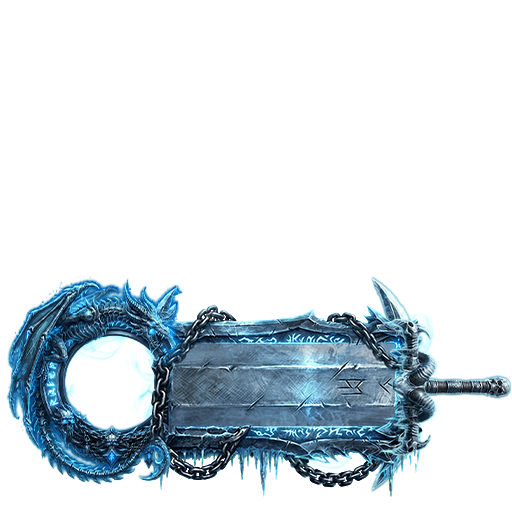
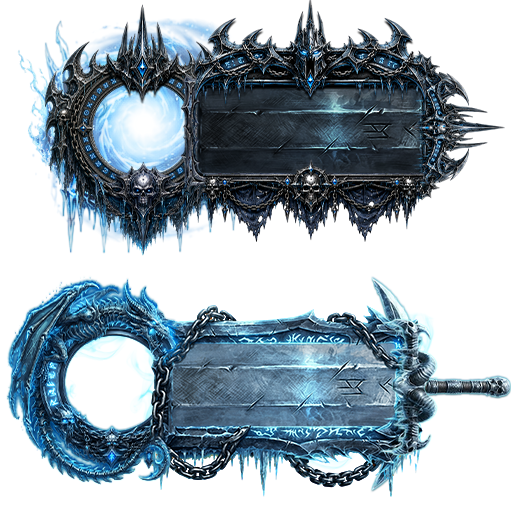
chore: update version to 1.4.3 style: added new death knight frames

Changed region(s): [[0.0312, 0.0, 0.9688, 0.5], [0.2812, 0.5625, 0.375, 0.625]]

diff --git a/README.md b/README.md
@@ -1,7 +1,7 @@
 # EPF Custom Skins
 
 [![License: CC BY-NC-SA 4.0](https://img.shields.io/badge/License-CC%20BY--NC--SA%204.0-blue.svg)](https://creativecommons.org/licenses/by-nc-sa/4.0/)
-[![Version](https://img.shields.io/badge/Version-1.4.2-informational)](ElitePlayerFrame_Enhanced_CustomSkins.toc)
+[![Version](https://img.shields.io/badge/Version-1.4.3-informational)](ElitePlayerFrame_Enhanced_CustomSkins.toc)
 [![WoW](https://img.shields.io/badge/WoW-12.1.0%20(MN)-orange)](https://worldofwarcraft.blizzard.com/)
 [![Lua](https://img.shields.io/badge/Lua-5.x-blue)](https://www.lua.org/)
 

diff --git a/CHANGELOG.md b/CHANGELOG.md
@@ -4,6 +4,12 @@ All notable changes to **EPF Custom Skins** are documented in this file.
 
 The format is based on [Keep a Changelog](https://keepachangelog.com/en/1.1.0/), and this project adheres to [Semantic Versioning](https://semver.org/spec/v2.0.0.html).
 
+## [1.4.3] - 2026-09-01
+
+### Added
+
+- Added death knight frames
+
 ## [1.4.2] - 2026-08-28
 
 ### Added
